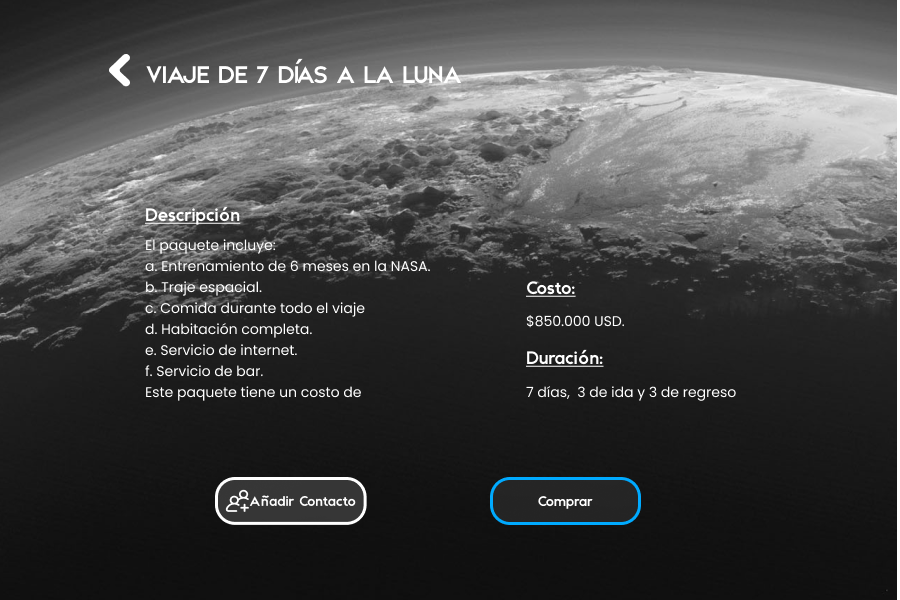
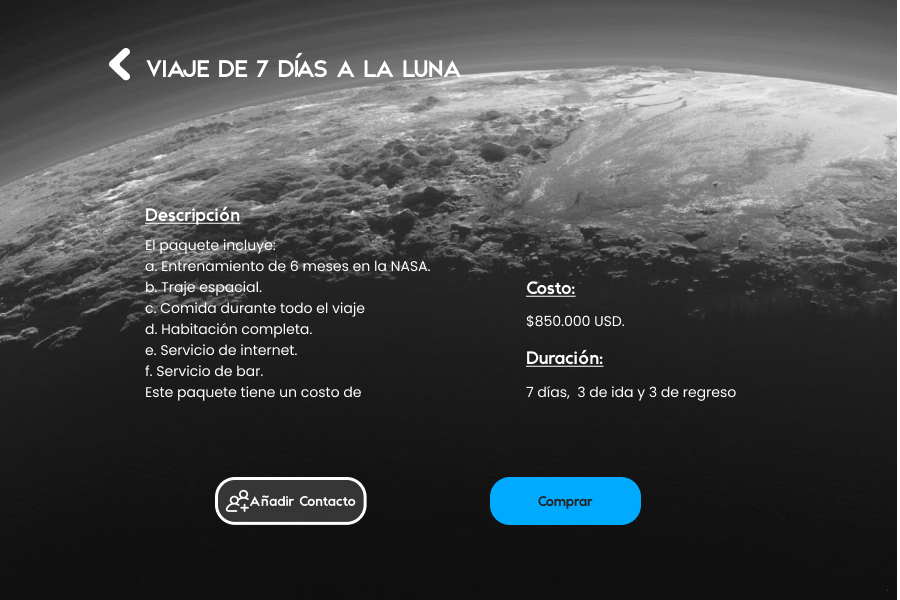
Pantallas de Viajes Implementados
Se habilita la navegación hacia las pantallas Intercontinental, Luna, Marte y Lista de Contactos

Changed region(s): [[0.1244, 0.06, 0.5289, 0.15], [0.5289, 0.78, 0.7156, 0.87]]

diff --git a/src/view/Main.java b/src/view/Main.java
@@ -22,6 +22,7 @@ public class Main extends PApplet {
 	ScreenLogIn screenLog;
 	ScreenRegister screenReg;
 	ScreenHome screenHome;
+	ScreenInfo screenInf;
 	
 	public void settings() {
 		size(900,600);
@@ -38,6 +39,7 @@ public class Main extends PApplet {
 		screenReg = new ScreenRegister(this);
 		screenLog = new ScreenLogIn(this);
 		screenHome = new ScreenHome(this);
+		screenInf = new ScreenInfo(this);
 		control = new Controller(this,cp5);
 	}
 	
@@ -63,6 +65,18 @@ public class Main extends PApplet {
 			//HOME SCREEN
 		screenHome.drawHome();
 		break;
+		case 5:
+			screenInf.drawInf(0);
+			break;
+		case 6:
+			screenInf.drawInf(1);
+			break;
+		case 7:
+			screenInf.drawInf(2);
+			break;
+		case 12:
+			
+			break;
 		}
 		/*background(250);
 		
@@ -84,6 +98,7 @@ public class Main extends PApplet {
 			text("registrar",0,500);*/
 		}
 	public void mouseClicked() {
+		//Cambio de pantallas
 		if(pantalla==1) {
 		
 		screenLog.textFields();	
@@ -99,9 +114,22 @@ public class Main extends PApplet {
 			screenLog.hide();
 			
 			pantalla=4;
-		
 		}
-		
+		if(pantalla==4&&(808>mouseX&&mouseX>695)&&(438>mouseY&&mouseY>404)) {
+			pantalla=12;
+		}
+		if(pantalla==4&&(206>mouseX&&mouseX>93)&&(438>mouseY&&mouseY>404)) {
+			pantalla=5;
+		}
+		if(pantalla==4&&(406>mouseX&&mouseX>296)&&(438>mouseY&&mouseY>404)) {
+			pantalla=6;
+		}
+		if(pantalla==4&&(606>mouseX&&mouseX>491)&&(438>mouseY&&mouseY>404)) {
+			pantalla=7;
+		}
+		if((pantalla==5||pantalla==6||pantalla==7)&&(130>mouseX&&mouseX>107)&&(81>mouseY&&mouseY>43)) {
+			pantalla=4;
+		}
 		//regC();
 				//para vaciar el texto de los cuadros
 				//clear();

diff --git a/src/view/ScreenInfo.java b/src/view/ScreenInfo.java
@@ -1,37 +1,45 @@
 package view;
 
+import controlP5.ControlP5;
 import processing.core.PApplet;
 import processing.core.PConstants;
 import processing.core.PImage;
 
 public class ScreenInfo {
 
-	int screenInf;
+	
 	PApplet app;
-	PImage infoV;
+	ControlP5 cp5;
+	PImage infoI;
 	PImage infoL;
 	PImage infoM;
 
 
-	public void setup() {
-		screenInf=0;
-		infoV= app.loadImage("pngs/5.png");
+	public ScreenInfo(PApplet app) {
+		this.app=app;
+		infoI= app.loadImage("pngs/5.png");
 		infoL= app.loadImage("pngs/6.png");
 		infoM= app.loadImage("pngs/7.png");
+		cp5 = new ControlP5(app);
 	}
 	
-	public void drawInf() {
+	public void drawInf(int screenInf) {
 		
 	//Screen changes
 			switch(screenInf) {
 			case 0:
 				app.imageMode(PConstants.CORNER);
-				app.image(infoV,0,0,app.width,app.height);
+				app.image(infoI,0,0,app.width,app.height);
 			break;
 			case 1:
 				app.imageMode(PConstants.CORNER);
 				app.image(infoL,0,0,app.width,app.height);
 			break;
+			case 2:
+				app.imageMode(PConstants.CORNER);
+				app.image(infoM,0,0,app.width,app.height);
+			break;
+			
 			}
 }
 }

diff --git a/src/view/ScreenContacts.java b/src/view/ScreenContacts.java
@@ -1,15 +1,24 @@
 package view;
 
+import controlP5.ControlP5;
 import processing.core.PApplet;
+import processing.core.PConstants;
 import processing.core.PImage;
 
 public class ScreenContacts {
 
 	PApplet app;
 	PImage contact;
-
-	public void setup() {
+	PImage buttonNom;
+	PImage buttonApe;
+	PImage buttonEma;
+	PImage buttonNac;
+	PImage buttonTel;
+	PImage buttonAny;
+	ControlP5 cp5;
+	public void setup(PApplet app) {
+		this.app=app;
 		contact= app.loadImage("pngs/c1.png");
-		
+		cp5 = new ControlP5(app);
 	}
 }
